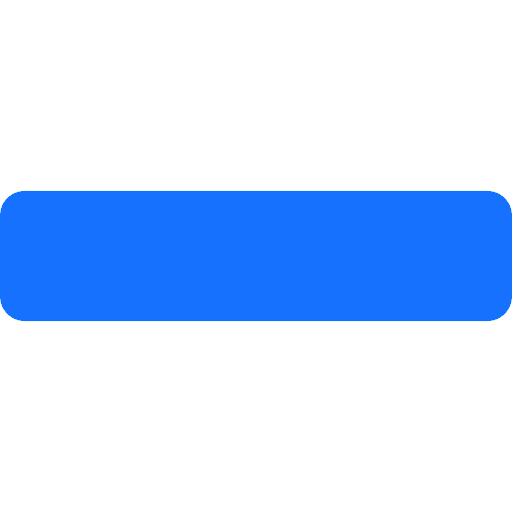
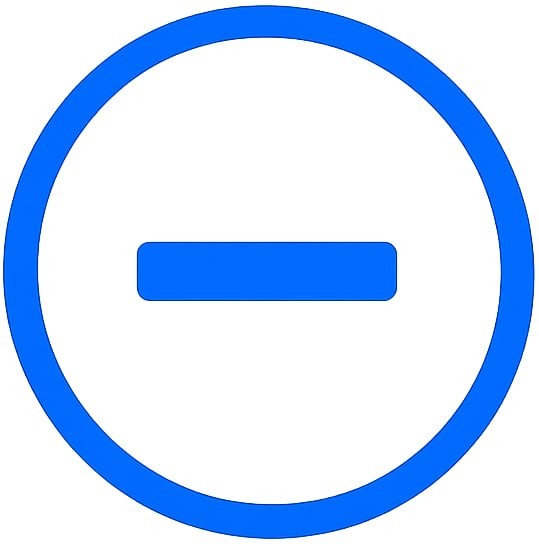
fix guest access

diff --git a/complaints/templates/complain_user.html b/complaints/templates/complain_user.html
@@ -1,5 +1,6 @@
 {% load static %}
 <div class="complain-overlay" id="complainUserOverlay">
+  <input type="hidden" id="complainUserId" value="{{ user.id }}">
   <div class="complain-backdrop" onclick="closeComplainUserOverlay()"></div>
   <div class="complain-modal">
     <div id="complainUserForm">
@@ -9,7 +10,9 @@
 
       <div class="complain-body">
         <p class="complain-subtitle">Введите причину жалобы:</p>
-        <textarea class="complain-textarea" placeholder="Опишите её здесь"></textarea>
+        <textarea id="complainUserText"
+          class="complain-textarea"
+          placeholder="Опишите её здесь"></textarea>
       </div>
 
       <div class="complain-footer">
@@ -46,7 +49,30 @@
   }
 
   function submitComplainUser() {
-    document.getElementById('complainUserForm').style.display = 'none';
-    document.getElementById('complainUserThanks').style.display = 'block';
-  }
+
+    const textarea = document.getElementById('complainUserText');
+
+    if (!textarea.value.trim()) {
+        textarea.style.border = '1px solid red';
+        return;
+    }
+
+    fetch('/complaint/?user_id=' + document.getElementById('complainUserId').value, {
+        method: 'POST',
+        headers: {
+            'Content-Type': 'application/x-www-form-urlencoded',
+            'X-CSRFToken': '{{ csrf_token }}'
+        },
+        body: 'description=' + encodeURIComponent(textarea.value)
+    }).then(function(response) {
+
+        if (response.ok) {
+            document.getElementById('complainUserForm').style.display = 'none';
+            document.getElementById('complainUserThanks').style.display = 'block';
+            textarea.value = '';
+        }
+
+    });
+
+}
 </script>

diff --git a/complains/templates/complain_user.html b/complains/templates/complain_user.html
@@ -9,7 +9,7 @@
 
       <div class="complain-body">
         <p class="complain-subtitle">Введите причину жалобы:</p>
-        <textarea class="complain-textarea" placeholder="Опишите её здесь"></textarea>
+        <textarea id="complainUserText" class="complain-textarea" placeholder="Опишите её здесь"></textarea>
       </div>
 
       <div class="complain-footer">
@@ -46,7 +46,26 @@
   }
 
   function submitComplainUser() {
-    document.getElementById('complainUserForm').style.display = 'none';
-    document.getElementById('complainUserThanks').style.display = 'block';
-  }
+    const textarea = document.getElementById('complainUserText');
+
+    if (!textarea.value.trim()) {
+        textarea.style.border = '1px solid red';
+        return;
+    }
+
+    fetch('/complaint/?user_id={{ user.id }}', {
+        method: 'POST',
+        headers: {
+            'X-CSRFToken': '{{ csrf_token }}',
+            'Content-Type': 'application/x-www-form-urlencoded'
+        },
+        body: 'description=' + encodeURIComponent(textarea.value)
+    }).then(function(response) {
+        if (response.ok) {
+            document.getElementById('complainUserForm').style.display = 'none';
+            document.getElementById('complainUserThanks').style.display = 'block';
+            textarea.value = '';
+        }
+    });
+}
 </script>

diff --git a/basic_templates/templates/header.html b/basic_templates/templates/header.html
@@ -57,9 +57,11 @@
       </button>
 
       <div class="profile-overlay" id="profileOverlay">
+        {% if request.user.is_authenticated %}
         <a href="{% url 'profile_posts' %}" class="overlay-item">
           <span>Профиль</span>
         </a>
+        {% endif %}
         {% if request.user.is_superuser %}
 
         <a href="{% url 'complains_panel_page_c' %}" class="overlay-item">
@@ -67,12 +69,20 @@
         </a>
 
         {% endif %}
+        {% if request.user.is_authenticated %}
         <a href="{% url 'settings' %}" class="overlay-item">
           <span>Настройки</span>
         </a>
-        <a href="{% url 'login' %}" class="overlay-item overlay-item-exit">
+        {% endif %}
+        {% if request.user.is_authenticated %}
+        <a href="{% url 'logout' %}" class="overlay-item overlay-item-exit">
           <span>Выйти</span>
         </a>
+        {% else %}
+        <a href="{% url 'login' %}" class="overlay-item overlay-item-exit">
+          <span>Войти</span>
+        </a>
+        {% endif %}
       </div>
     </div>
   </div>

diff --git a/static/css/profile.css b/static/css/profile.css
@@ -64,12 +64,13 @@
 .friend-btn {
     display: flex;
     align-items: center;
-    gap: 6px;
+    gap: 7px;
 }
 
+
 .friend-btn img {
-    width: 18px;
-    height: 18px;
+    width: 22px;
+    height: 22px;
     object-fit: fill;
 }
 

diff --git a/complaints/views.py b/complaints/views.py
@@ -23,7 +23,7 @@ def decline(request):
 	return redirect(request.GET.get('to'))
 
 def complaint_page(request):
-	if not request.user.active:
+	if not request.user.is_authenticated or not request.user.active:
 		return redirect('/')
 	context = {}
 
@@ -36,18 +36,27 @@ def complaint_page(request):
 		complaint_text = form.data['description']
 		if not complaint_text.strip():
 			return redirect(request.META.get('HTTP_REFERER', '/'))
-		if user_id and int(user_id) != int(request.user.id) or question_id or comment_id:
-			complaint = Complaint(author=request.user, description=complaint_text,
-								  question=Question.objects.filter(id=question_id)[0] if "question_id" in request.GET else None,
-								  user=User.objects.filter(id=user_id)[0] if "user_id" in request.GET else None,
-								  comment=Comment.objects.filter(id=comment_id)[0] if "comment_id" in request.GET else None,
+		if (
+				(user_id and int(user_id) != int(request.user.id))
+				or question_id
+				or comment_id
+		):
+			complaint = Complaint(
+				author=request.user,
+				description=complaint_text,
+				question=Question.objects.filter(id=question_id).first() if question_id else None,
+				user=User.objects.filter(id=user_id).first() if user_id else None,
+				comment=Comment.objects.filter(id=comment_id).first() if comment_id else None,
 			)
 			complaint.save()
 	else:
 		form = ComplaintForm()
 
 	context['form'] = form
-	context['subscriptions'] = Subscription.objects.filter(user1=request.user)
+	if request.user.is_authenticated:
+		context['subscriptions'] = Subscription.objects.filter(user1=request.user)
+	else:
+		context['subscriptions'] = []
 
 	return render(request, "complaint.html", context)
 
@@ -61,7 +70,10 @@ def complaint_user_panel_page(request):
 
 	context['complaints'] = complaints
 	context['user'] = request.user
-	context['subscriptions'] = Subscription.objects.filter(user1=request.user)
+	if request.user.is_authenticated:
+		context['subscriptions'] = Subscription.objects.filter(user1=request.user)
+	else:
+		context['subscriptions'] = []
 
 	return render(request, "complaint_user_panel.html", context)
 
@@ -74,7 +86,10 @@ def complaint_question_panel_page(request):
 
 	context['complaints'] = complaints
 	context['user'] = request.user
-	context['subscriptions'] = Subscription.objects.filter(user1=request.user)
+	if request.user.is_authenticated:
+		context['subscriptions'] = Subscription.objects.filter(user1=request.user)
+	else:
+		context['subscriptions'] = []
 	return render(request, "complaint_question_panel.html", context)
 
 def complaint_comment_panel_page(request):
@@ -86,6 +101,9 @@ def complaint_comment_panel_page(request):
 
 	context['complaints'] = complaints
 	context['user'] = request.user
-	context['subscriptions'] = Subscription.objects.filter(user1=request.user)
+	if request.user.is_authenticated:
+		context['subscriptions'] = Subscription.objects.filter(user1=request.user)
+	else:
+		context['subscriptions'] = []
 
 	return render(request, "complaint_comment_panel.html", context)

diff --git a/questions/views.py b/questions/views.py
@@ -71,7 +71,10 @@ def question_page(request, question_id, template_name='question.html'):
             "message": context_for_update
         }
     )
-    context['subscriptions'] = Subscription.objects.filter(user1=request.user)
+    if request.user.is_authenticated:
+        context['subscriptions'] = Subscription.objects.filter(user1=request.user)
+    else:
+        context['subscriptions'] = []
     return render(request, template_name=template_name, context=context)
 
 
@@ -79,7 +82,7 @@ def question_make_page(request):
     context = {}
 
     if request.user.is_authenticated:
-        if request.user.active:
+        if request.user.is_authenticated and request.user.active:
             if request.method == "POST":
                 form = QuestionForm(request.POST)
 
@@ -128,7 +131,10 @@ def question_make_page(request):
             return redirect('/')
     else:
         return redirect('/account/login')
-    context['subscriptions'] = Subscription.objects.filter(user1=request.user)
+    if request.user.is_authenticated:
+        context['subscriptions'] = Subscription.objects.filter(user1=request.user)
+    else:
+        context['subscriptions'] = []
     return render(request, template_name='make_edit_question.html', context=context)
 
 def question_edit_page(request):
@@ -176,7 +182,10 @@ def question_edit_page(request):
         'question': question,
         'is_edit': True,
     }
-    context['subscriptions'] = Subscription.objects.filter(user1=request.user)
+    if request.user.is_authenticated:
+        context['subscriptions'] = Subscription.objects.filter(user1=request.user)
+    else:
+        context['subscriptions'] = []
     return render(request, 'make_edit_question.html', context)
 
 

diff --git a/main/views.py b/main/views.py
@@ -68,7 +68,6 @@ def index_page(request):
         "page1": 'Логин',
         "link2": "account/signup/",
         "page2": 'Регистрация',
-        'subscriptions': Subscription.objects.filter(user1=request.user),
     }
     if request.user.is_authenticated:
         context['link1'] = "account/logout/"
@@ -88,9 +87,12 @@ def index_page(request):
         images[f'{i.id}'] = i.images.split(',')[0]
     context['images'] = images
     context['len'] = len(results)
-    context['notifications'] = Notification.objects.filter(
-        user=request.user
-    ).order_by('-created_at')[:20]
+    if request.user.is_authenticated:
+        context['notifications'] = Notification.objects.filter(
+            user=request.user
+        ).order_by('-created_at')[:20]
+    else:
+        context['notifications'] = []
     return render(request, template_name="index.html", context=context)
 
 def get_subscribed_authors(user):
@@ -292,8 +294,13 @@ def dislike(request):
 def sidebar_page(request):
     context = {}
 
-    subscriptions = Subscription.objects.filter(user1=request.user)
+    if request.user.is_authenticated:
+        subscriptions = Subscription.objects.filter(user1=request.user)
+    else:
+        subscriptions = []
+
     context['subscriptions'] = subscriptions
+
 
     return render(request, template_name="sidebar.html", context=context)
 
